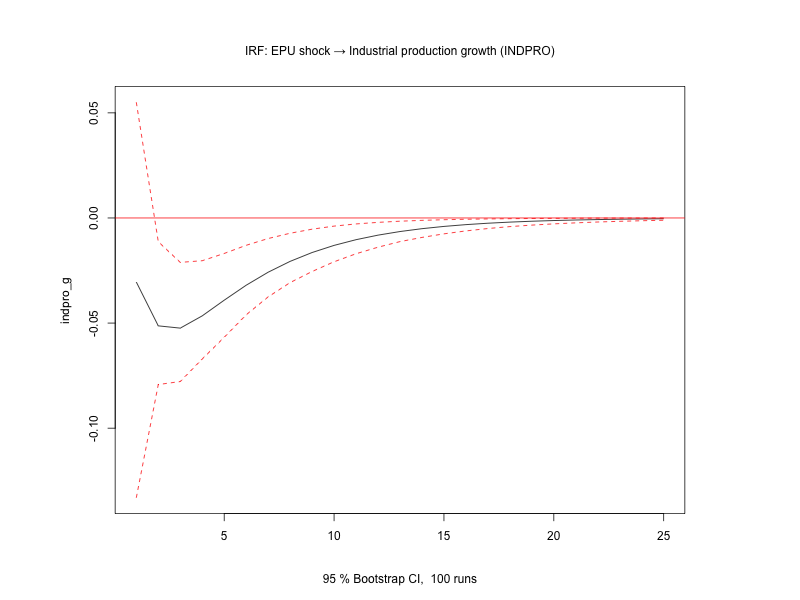
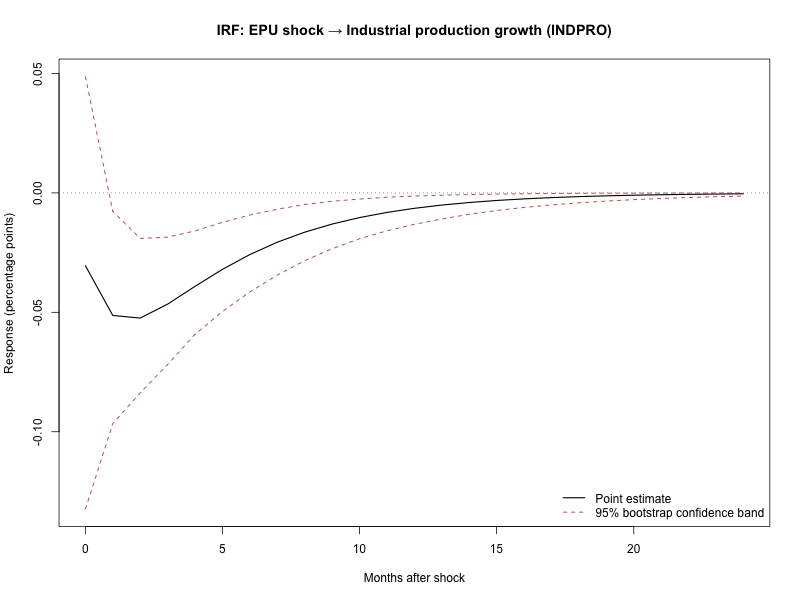
final version

diff --git a/latex-header.tex b/latex-header.tex
@@ -1,5 +1,3 @@
-\usepackage{float}
-\floatplacement{figure}{H}
 \usepackage{booktabs}
 \setlength{\parskip}{6pt}
 \setlength{\parindent}{0pt}